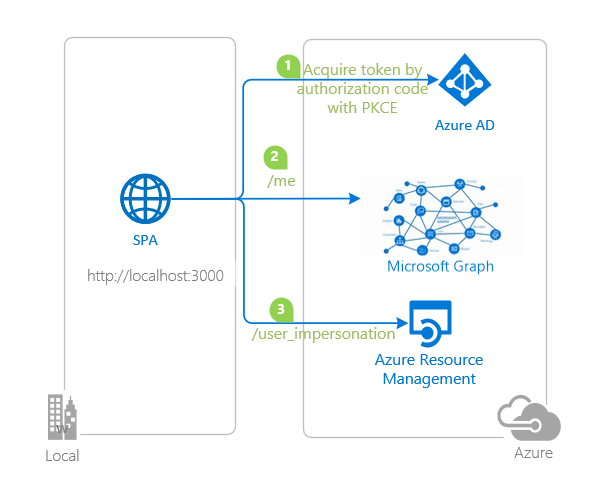
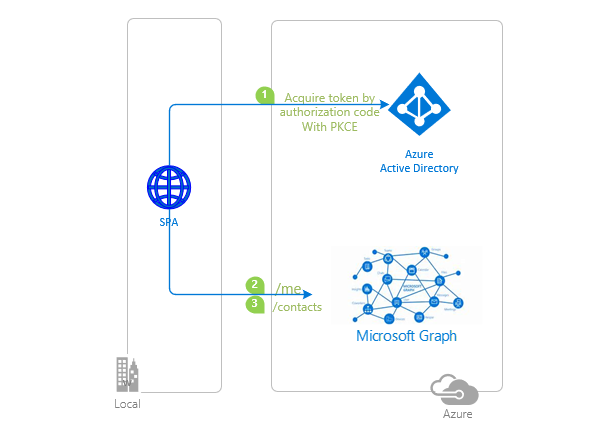
updated topology

Changed region(s): [[0.0607, 0.0303, 0.8196, 0.9697], [0.4857, 0.7879, 0.941, 0.9697], [0.8196, 0.0606, 0.8499, 0.0909]]

diff --git a/2-Authorization-I/1-call-graph/README.md b/2-Authorization-I/1-call-graph/README.md
@@ -341,49 +341,6 @@ export default useTokenAcquisition;
 
 Clients should treat access tokens as opaque strings, as the contents of the token are intended for the **resource only** (such as a web API or Microsoft Graph). For validation and debugging purposes, developers can decode **JWT**s (*JSON Web Tokens*) using a site like [jwt.ms](https://jwt.ms).
 
-### Calling the Microsoft Graph API
-
-[Microsoft Graph JavaScript SDK](https://github.com/microsoftgraph/msgraph-sdk-javascript) provides various utility methods to query the Graph API. The SDK has a default authentication provider that can be used in basic scenarios. To do so, we will initialize the Graph SDK client with [clientOptions](https://github.com/microsoftgraph/msgraph-sdk-javascript/blob/dev/docs/CreatingClientInstance.md) method, which contains an `authProvider` object. We will pass the obtained access token to the `authProvider` object as shown in the code below:
-
-```javascript
-export const getGraphClient = (accessToken) => {
-    // Initialize Graph client
-    const client = Client.init({
-        // Use the provided access token to authenticate requests
-        authProvider: (done) => {
-            done(null, accessToken);
-        },
-    });
-
-    return client;
-};
-```
-
-See [graph.js](./SPA/src/graph.js). The Graph client then can be used in your components as shown below:
-
-```javascript
-const ProfileContent = () => {
-    const [response] = useTokenAcquisition(protectedResources.graphMe.scopes);
-    const [graphData, setGraphData] = useState(null);
-    useEffect(() => {
-        const fetchData = async () => {
-            if (response && !graphData) {
-                try {
-                    const graphClient = getGraphClient(response.accessToken);
-                    let data = await graphClient.api(protectedResources.graphMe.endpoint).get();
-                    setGraphData(data);
-                } catch (error) {
-                    console.log(error);
-                }
-            }
-        };
-
-        fetchData();
-    }, [response]);
-
-    return <>{graphData ? <ProfileData graphData={graphData} /> : null}</>;
-};
-```
 
 ### Calling the Microsoft Graph API
 
